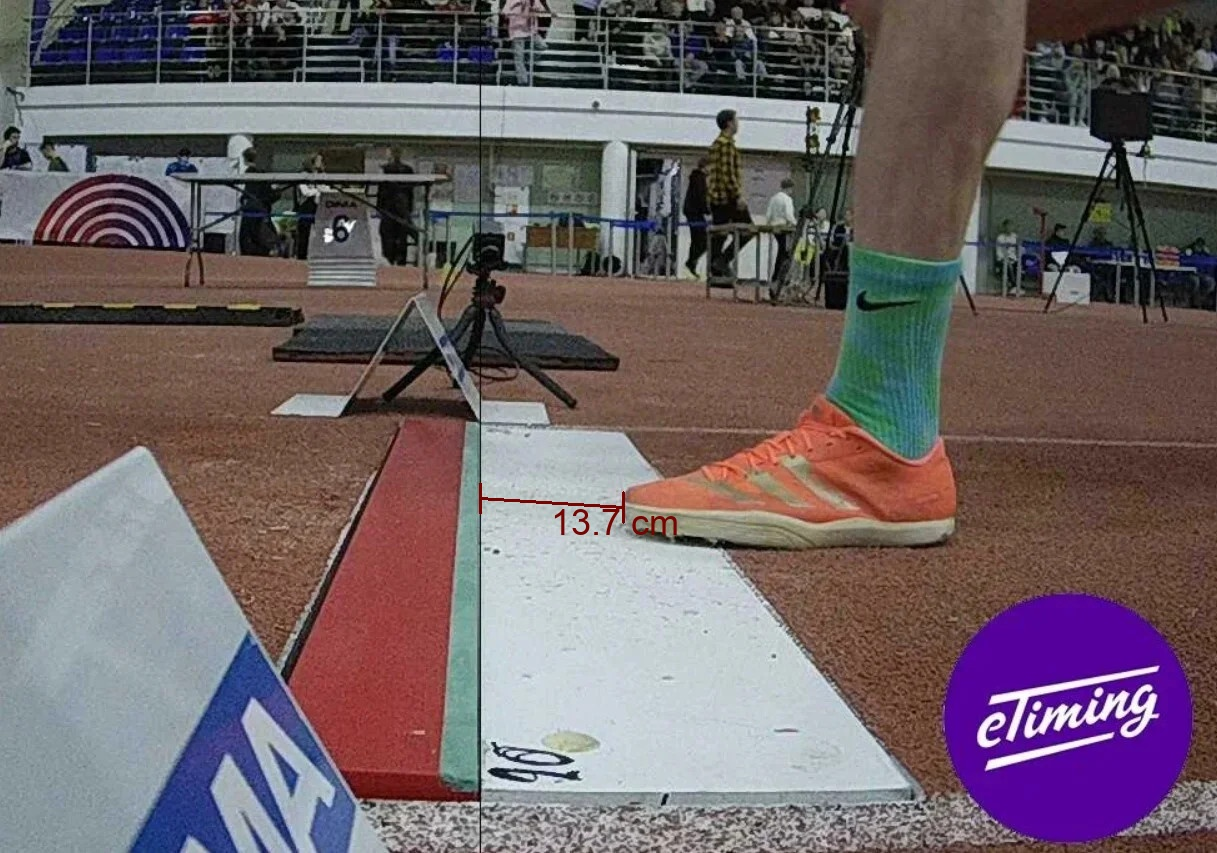
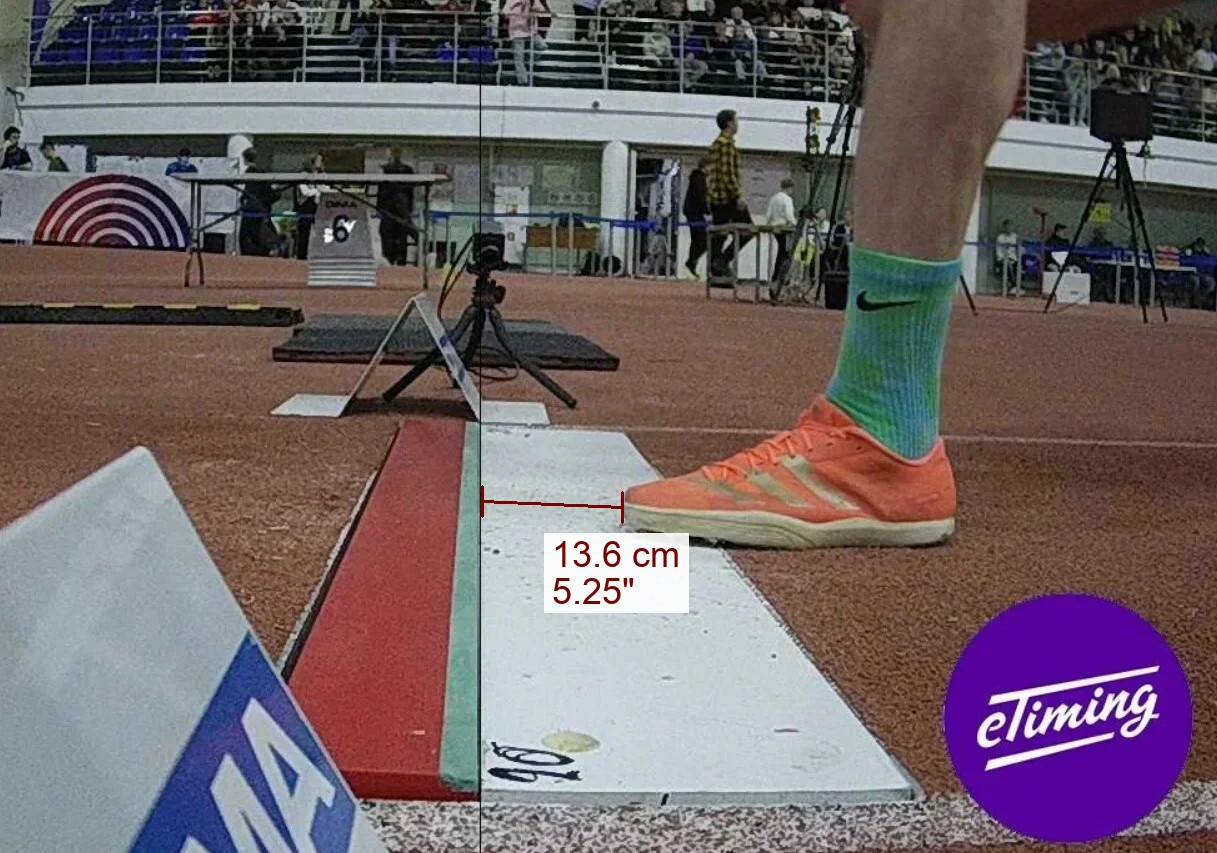
viable PoC

Changed region(s): [[0.3747, 0.5791, 0.5933, 0.7315]]

diff --git a/__main__.py b/__main__.py
@@ -117,28 +117,56 @@ right_hash_start, right_hash_end = get_hash_points(toe_pt)
 cv2.line(out, left_hash_start, left_hash_end, (0,4,119), 2)
 cv2.line(out, right_hash_start, right_hash_end, (0,4,119), 2)
 
-# Calculate midpoint for label (existing code)
-label = f"{distance_cm:.1f} cm"
-mid = ((toe_pt[0]+left_edge_pt[0])//2, (toe_pt[1]+left_edge_pt[1])//2)
+# Calculate measurements and format labels
+cm_label = f"{distance_cm:.1f} cm"
+inches = distance_cm / 2.54  # Convert cm to inches
+quarter = round(inches * 4) / 4  # Round to nearest quarter inch
+inch_label = f"{quarter:.2f}\""  # Format as decimal with 2 places
+
+# Combined label with newline
+label = f"{cm_label}\n{inch_label}"
+
+# Calculate midpoint for label with more offset for two lines
+offset_y = 30  # Increased offset for two lines of text
+mid_x = (toe_pt[0] + left_edge_pt[0]) // 2
+mid_y = (toe_pt[1] + left_edge_pt[1]) // 2 + offset_y
+mid = (mid_x, mid_y)
 
 # Convert from OpenCV to PIL format
 out_rgb = cv2.cvtColor(out, cv2.COLOR_BGR2RGB)
 pil_img = Image.fromarray(out_rgb)
 draw = ImageDraw.Draw(pil_img)
 
-# Load a font (use a system font or provide path to a .ttf file)
+# Load font
 font_size = 36
 try:
-    # Try to use Arial font (common on Mac)
     font = ImageFont.truetype("/System/Library/Fonts/Arial.ttf", font_size)
 except OSError:
-    # Fallback to default font
     font = ImageFont.load_default()
 
-# Add text with PIL
-draw.text(mid, label, font=font, fill=(119,4,0))  # Note: PIL uses RGB
+# Get text size to create background card (now for multiline text)
+text_bbox = draw.textbbox(mid, label, font=font)
+padding = 8  # pixels of padding around text
+card_bbox = (
+    text_bbox[0] - padding,
+    text_bbox[1] - padding,
+    text_bbox[2] + padding,
+    text_bbox[3] + padding
+)
 
-# Convert back to OpenCV format
+# Draw white background card with slight transparency
+card_color = (255, 255, 255, 230)  # White with alpha
+card_layer = Image.new('RGBA', pil_img.size, (0, 0, 0, 0))
+card_draw = ImageDraw.Draw(card_layer)
+card_draw.rectangle(card_bbox, fill=card_color)
+pil_img = Image.alpha_composite(pil_img.convert('RGBA'), card_layer)
+
+# Draw text on top
+draw = ImageDraw.Draw(pil_img)
+draw.text(mid, label, font=font, fill=(119, 4, 0))  # Note: PIL uses RGB
+
+# Convert back to OpenCV format (convert from RGBA to RGB first)
+pil_img = pil_img.convert('RGB')
 out = cv2.cvtColor(np.array(pil_img), cv2.COLOR_RGB2BGR)
 
 # Save result
